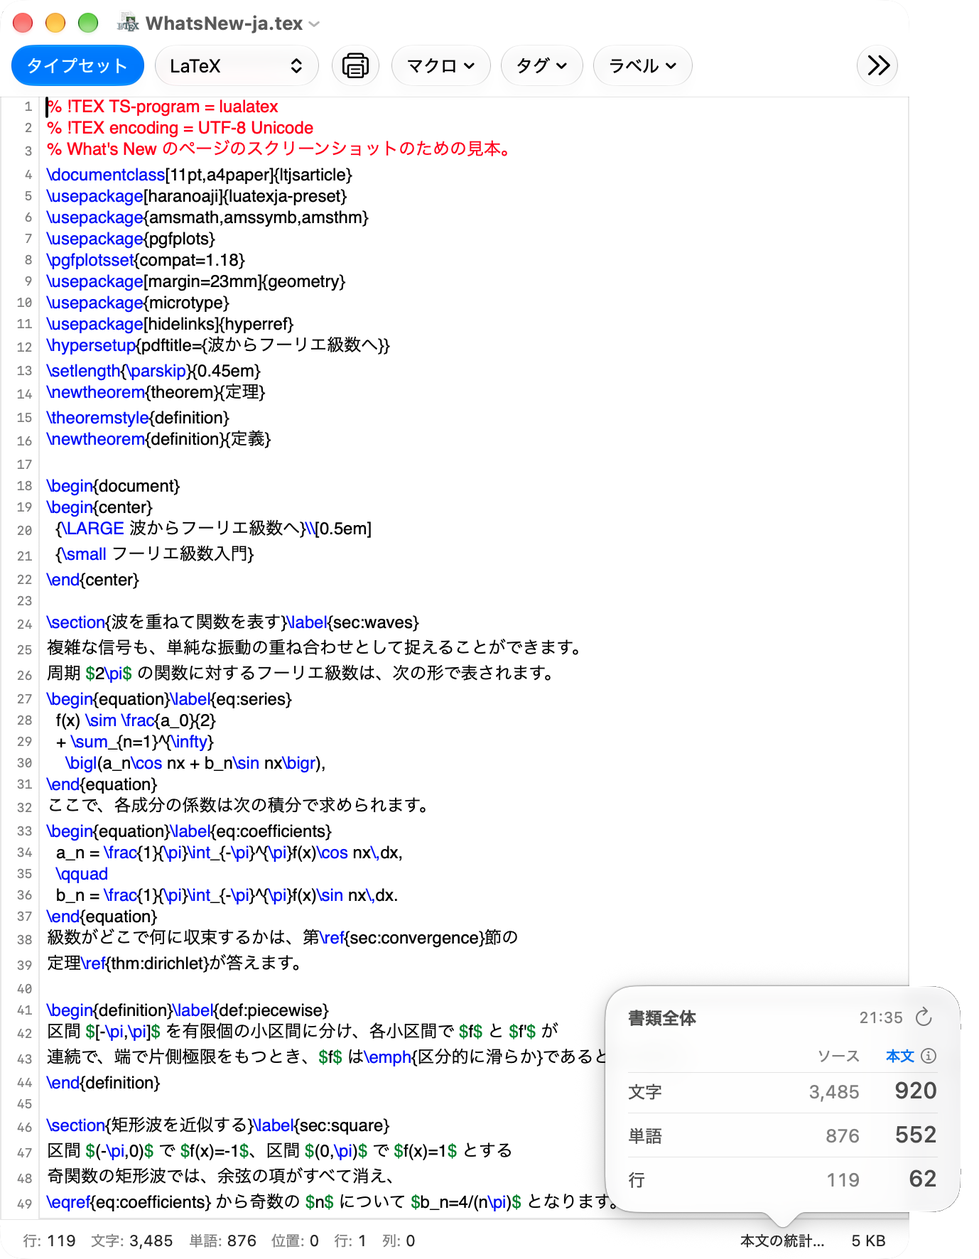
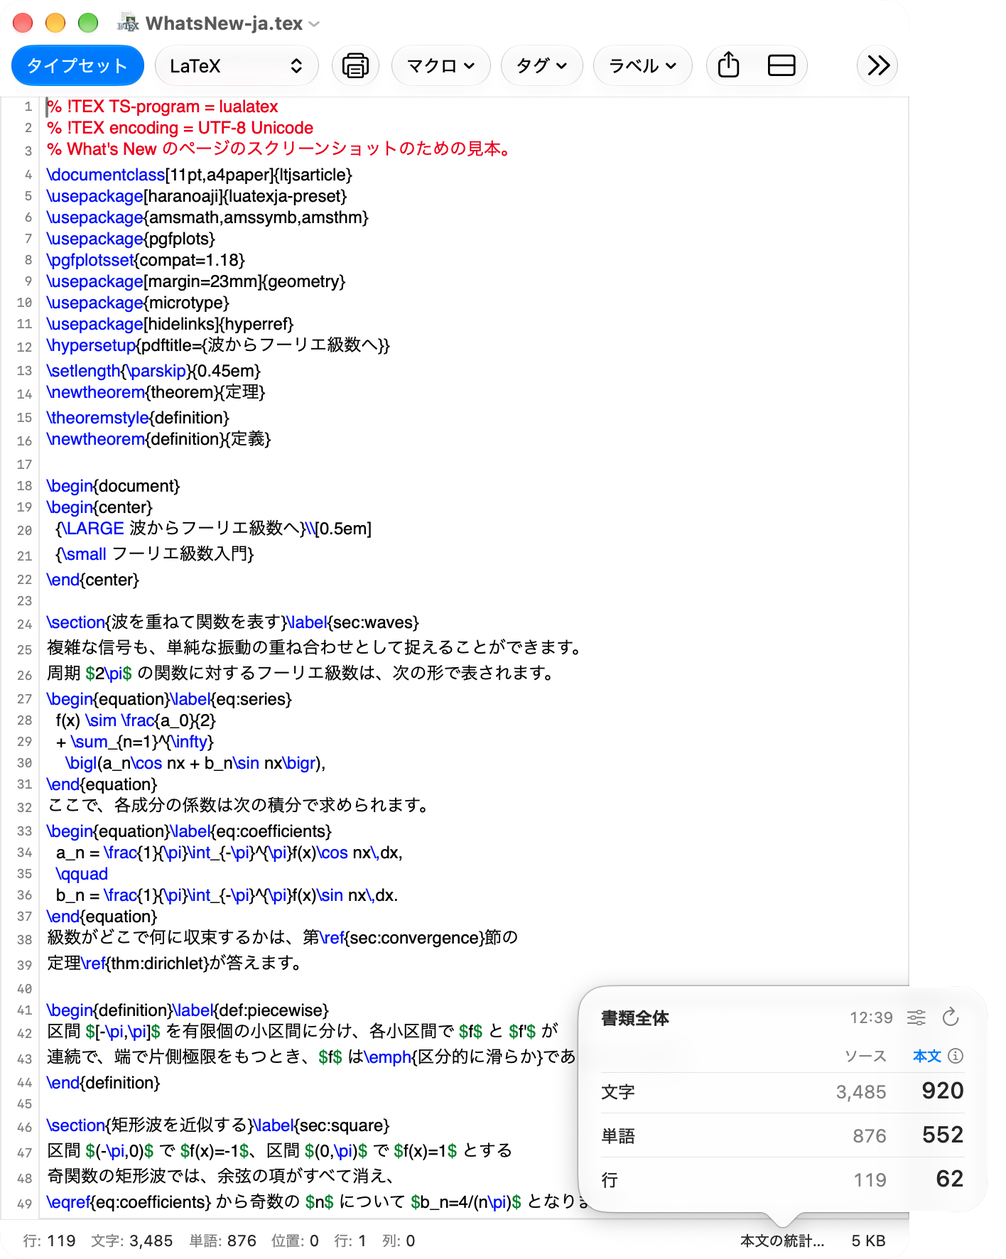
Show Text Statistics with its character count options on the What's New page
The status bar pictures show the new options button, and a card after the
status bar shows the options open.

diff --git a/website/whats-new-ja.html b/website/whats-new-ja.html
@@ -8,7 +8,7 @@
 <h1>TeXShop 6の新機能</h1>
 <p class="whats-new-download"><a class="download" href="https://github.com/TeXShopProject/TeXShop/releases/download/v.6.00-rc.2/TeXShop-6.00-RC2.zip">TeXShop 6.00 RC2 をダウンロード</a></p>
 <p class="lead">新しいTeXShop 6では、設定画面をmacOSの「システム設定」風に再設計しました。あらゆるキーバインドがカスタマイズできるようになったほか、LaTeXの構文を考慮するスペルチェッカを搭載。また、新設計の検索パネルは、複数置換機能や、同じ親ファイルを持つファイル群をまとめて検索・置換する機能も搭載しました。TeXのパスの自動設定機能およびプロファイルによるエンジン設定機能により、初期セットアップも容易になりました。文字数などを常時表示できるステータスバーも搭載。アプリのアイコンも、macOS 26 Tahoe以降の新しいデザインコードに対応した新デザインになりました。</p>
-<nav class="whats-new-contents" aria-label="目次"><ul><li><a href="#settings">新しく設計し直された設定画面</a></li><li><a href="#shortcuts">あらゆるキーバインドをカスタマイズ</a></li><li><a href="#spell-checking">LaTeXの構文を考慮するスペルチェック</a></li><li><a href="#find-panel">新しい検索パネル</a></li><li><a href="#multiple-replace">複数置換</a></li><li><a href="#texroot-search">同じ親ファイルを持つファイル群の一括検索・置換</a></li><li><a href="#status-bar">ステータスバーを新設</a></li><li><a href="#detect-paths">TeXとGhostscriptのパスを自動で設定</a></li><li><a href="#engine-profiles">エンジンのプロファイル機能</a></li><li><a href="#line-numbers">行番号で行を選択</a></li><li><a href="#toolbar-buttons">ツールバーの便利な新ボタン</a></li><li><a href="#look">新しいアイコン</a></li><li><a href="#other-changes">そのほかの変更</a></li><li><a href="#changes-in-behavior">以前の版から変わった動き</a></li></ul></nav>
+<nav class="whats-new-contents" aria-label="目次"><ul><li><a href="#settings">新しく設計し直された設定画面</a></li><li><a href="#shortcuts">あらゆるキーバインドをカスタマイズ</a></li><li><a href="#spell-checking">LaTeXの構文を考慮するスペルチェック</a></li><li><a href="#find-panel">新しい検索パネル</a></li><li><a href="#multiple-replace">複数置換</a></li><li><a href="#texroot-search">同じ親ファイルを持つファイル群の一括検索・置換</a></li><li><a href="#status-bar">ステータスバーを新設</a></li><li><a href="#text-statistics">高度な文字カウントが可能な統計パネル</a></li><li><a href="#detect-paths">TeXとGhostscriptのパスを自動で設定</a></li><li><a href="#engine-profiles">エンジンのプロファイル機能</a></li><li><a href="#line-numbers">行番号で行を選択</a></li><li><a href="#toolbar-buttons">ツールバーの便利な新ボタン</a></li><li><a href="#look">新しいアイコン</a></li><li><a href="#other-changes">そのほかの変更</a></li><li><a href="#changes-in-behavior">以前の版から変わった動き</a></li></ul></nav>
 <section class="feature-list" aria-label="主な変更">
 <article class="feature" id="settings"><div class="feature-text"><h2>新しく設計し直された設定画面</h2><p>サイドバーと検索欄を備えた、新しい設定画面になりました。</p></div><figure><img class="shot-light" src="assets/whats-new/ja/settings.png" width="600" height="450" alt="分類のサイドバーと「一般」を示す設定画面"><img loading="lazy" class="shot-dark" src="assets/whats-new/ja/settings-dark.png" width="600" height="450" alt="分類のサイドバーと「一般」を示す設定画面"></figure></article>
 <article class="feature" id="shortcuts"><div class="feature-text"><h2>あらゆるキーバインドをカスタマイズ</h2><p>メニューとマクロのショートカット、キーバインドを自由にカスタマイズできます。</p></div><figure><img class="shot-light" src="assets/whats-new/ja/menu-shortcuts.png" width="600" height="450" alt="「タイプセット」で探したメニューのショートカットの一覧" loading="lazy"><img class="shot-dark" src="assets/whats-new/ja/menu-shortcuts-dark.png" width="600" height="450" alt="「タイプセット」で探したメニューのショートカットの一覧" loading="lazy"><figcaption>メニューのショートカット</figcaption></figure><figure><img class="shot-light" src="assets/whats-new/ja/key-bindings.png" width="600" height="450" alt="選択中の文字列や出力後のカーソル位置を入れたキーバインドの一覧と、ペーストした文字列にも適用する行の「ペースト」のチェック" loading="lazy"><img class="shot-dark" src="assets/whats-new/ja/key-bindings-dark.png" width="600" height="450" alt="選択中の文字列や出力後のカーソル位置を入れたキーバインドの一覧と、ペーストした文字列にも適用する行の「ペースト」のチェック" loading="lazy"><figcaption>キーバインド</figcaption></figure><figure><img class="shot-light" src="assets/release-notes/ja/macro-editor.png" width="585" height="452" alt="マクロの一覧をサイドバーに置き、プレースホルダを札で示すTeXのマクロと、Commandなしのショートカットを示すマクロエディタ" loading="lazy"><img class="shot-dark" src="assets/release-notes/ja/macro-editor-dark.png" width="585" height="452" alt="マクロの一覧をサイドバーに置き、プレースホルダを札で示すTeXのマクロと、Commandなしのショートカットを示すマクロエディタ" loading="lazy"><figcaption>マクロエディタ</figcaption></figure></article>
@@ -16,7 +16,8 @@
 <article class="feature" id="find-panel"><div class="feature-text"><h2>新しい検索パネル</h2><p>正規表現を使える新しい検索パネルで、すべての一致を一覧にしたり、ハイライトしたりできます。</p></div><figure><img class="shot-light" src="assets/whats-new/ja/advanced-find.png" width="600" height="494" alt="正規表現を入れた新しい検索パネルと、すべての一致の一覧、ソースで強調された一致" loading="lazy"><img class="shot-dark" src="assets/whats-new/ja/advanced-find-dark.png" width="600" height="494" alt="正規表現を入れた新しい検索パネルと、すべての一致の一覧、ソースで強調された一致" loading="lazy"></figure></article>
 <article class="feature" id="multiple-replace"><div class="feature-text"><h2>複数置換</h2><p>検索と置換の組をいくつも登録して、まとめて置換できます。</p></div><figure><img class="shot-light" src="assets/release-notes/ja/multiple-replace.png" width="600" height="270" alt="検索と置換の組を4つ並べた複数置換の窓" loading="lazy"><img class="shot-dark" src="assets/release-notes/ja/multiple-replace-dark.png" width="600" height="269" alt="検索と置換の組を4つ並べた複数置換の窓" loading="lazy"></figure></article>
 <article class="feature" id="texroot-search"><div class="feature-text"><h2>同じ親ファイルを持つファイル群の一括検索・置換</h2><p>章ごとにファイルを分けた文書でも、同じ<code>%&nbsp;!TEX&nbsp;root</code>を持つすべてのソースを、まとめて検索・置換できます。置換の前後を一覧で確かめてから、一度に書き換えられます。</p></div><figure><a class="shot-light" href="assets/whats-new/ja/texroot-find.png"><img src="assets/whats-new/ja/texroot-find.png" width="600" height="382" alt="章ごとに分けた文書の4つのファイルにあるeq:seriesの一致を一覧にした「TeXソースの検索と置換」の窓" loading="lazy"></a><a class="shot-dark" href="assets/whats-new/ja/texroot-find-dark.png"><img src="assets/whats-new/ja/texroot-find-dark.png" width="600" height="382" alt="章ごとに分けた文書の4つのファイルにあるeq:seriesの一致を一覧にした「TeXソースの検索と置換」の窓" loading="lazy"></a><figcaption>検索</figcaption></figure><figure><a class="shot-light" href="assets/whats-new/ja/texroot-replace.png"><img src="assets/whats-new/ja/texroot-replace.png" width="600" height="382" alt="置換の前後を行ごとに並べ、「バックアップを保存」と「すべて置き換え」のある「TeXソースの検索と置換」の窓" loading="lazy"></a><a class="shot-dark" href="assets/whats-new/ja/texroot-replace-dark.png"><img src="assets/whats-new/ja/texroot-replace-dark.png" width="600" height="382" alt="置換の前後を行ごとに並べ、「バックアップを保存」と「すべて置き換え」のある「TeXソースの検索と置換」の窓" loading="lazy"></a><figcaption>置換</figcaption></figure></article>
-<article class="feature" id="status-bar"><div class="feature-text"><h2>ステータスバーを新設</h2><p>ソースの下に行数・文字数・単語数を常時表示できます。TeXの命令を除く本文の文字数も数えられます。</p></div><figure><img class="shot-light" src="assets/whats-new/ja/status-bar.png" width="689" height="886" alt="ステータスバーと、ソースと本文の数を並べた「本文の統計」のポップオーバーを示すソースウインドウ" loading="lazy"><img class="shot-dark" src="assets/whats-new/ja/status-bar-dark.png" width="689" height="886" alt="ステータスバーと、ソースと本文の数を並べた「本文の統計」のポップオーバーを示すソースウインドウ" loading="lazy"></figure></article>
+<article class="feature" id="status-bar"><div class="feature-text"><h2>ステータスバーを新設</h2><p>ソースの下に行数・文字数・単語数を常時表示できます。TeXの命令を除く本文の文字数も数えられます。</p></div><figure><img class="shot-light" src="assets/whats-new/ja/status-bar.png" width="708" height="886" alt="ステータスバーと、ソースと本文の数を並べた「本文の統計」のポップオーバーを示すソースウインドウ" loading="lazy"><img class="shot-dark" src="assets/whats-new/ja/status-bar-dark.png" width="708" height="886" alt="ステータスバーと、ソースと本文の数を並べた「本文の統計」のポップオーバーを示すソースウインドウ" loading="lazy"></figure></article>
+<article class="feature" id="text-statistics"><div class="feature-text"><h2>高度な文字カウントが可能な統計パネル</h2><p>改行や空白を除いた文字数や、UTF-16・バイト単位の数など、目的に合わせた数え方で本文の文字数を数えられます。</p></div><figure><img class="shot-light" src="assets/whats-new/ja/text-statistics.png" width="708" height="886" alt="改行と空白を無視するオプションを開いた「本文の統計」のポップオーバー" loading="lazy"><img class="shot-dark" src="assets/whats-new/ja/text-statistics-dark.png" width="708" height="886" alt="改行と空白を無視するオプションを開いた「本文の統計」のポップオーバー" loading="lazy"></figure></article>
 <article class="feature" id="detect-paths"><div class="feature-text"><h2>TeXとGhostscriptのパスを自動で設定</h2><p>TeXディストリビューション・Ghostscriptのインストール先を自動検索して設定できます。初期設定が簡単になります。</p></div><figure><img class="shot-light" src="assets/release-notes/ja/detect-paths.png" width="600" height="450" alt="見つかったTeXとGhostscriptを並べた「パスの自動検出」のシート" loading="lazy"><img class="shot-dark" src="assets/release-notes/ja/detect-paths-dark.png" width="600" height="450" alt="見つかったTeXとGhostscriptを並べた「パスの自動検出」のシート" loading="lazy"></figure></article>
 <article class="feature" id="engine-profiles"><div class="feature-text"><h2>エンジンのプロファイル機能</h2><p>LuaLaTeX, (u)pLaTeX + dvipdfmxなど、主要エンジンに対応したプロファイルを用意。エンジン選択の初期設定が簡単になりました。</p></div><figure><img class="shot-light" src="assets/release-notes/ja/engine-profiles.png" width="600" height="450" alt="エンジンのプロファイルのメニューのある設定の「タイプセット」" loading="lazy"><img class="shot-dark" src="assets/release-notes/ja/engine-profiles-dark.png" width="600" height="450" alt="エンジンのプロファイルのメニューのある設定の「タイプセット」" loading="lazy"></figure></article>
 <article class="feature" id="line-numbers"><div class="feature-text"><h2>行番号で行を選択</h2><p>行番号をクリックまたはドラッグして、行をまとめて選択できます。</p></div><figure><img class="shot-light" src="assets/whats-new/ja/line-numbers.png" width="551" height="560" alt="行番号の上をドラッグして27〜31行を選択したソースウインドウ" loading="lazy"><img class="shot-dark" src="assets/whats-new/ja/line-numbers-dark.png" width="551" height="560" alt="行番号の上をドラッグして27〜31行を選択したソースウインドウ" loading="lazy"></figure></article>

diff --git a/website/whats-new.html b/website/whats-new.html
@@ -8,7 +8,7 @@
 <h1>What’s New in TeXShop 6</h1>
 <p class="whats-new-download"><a class="download" href="https://github.com/TeXShopProject/TeXShop/releases/download/v.6.00-rc.2/TeXShop-6.00-RC2.zip">Download TeXShop 6.00 RC2</a></p>
 <p class="lead">The new TeXShop 6 redesigns Settings in the style of macOS System Settings. Every key binding can now be customized, and a spell checker that understands LaTeX syntax is built in. The newly designed Find panel also does multiple replacement, and can find and replace in all files with the same root file. Automatic TeX paths and engine profiles make the first setup easy. A status bar can show the character count and more at all times. The app icon also has a new design for the design language of macOS 26 Tahoe and later.</p>
-<nav class="whats-new-contents" aria-label="Contents"><ul><li><a href="#settings">A redesigned Settings window</a></li><li><a href="#shortcuts">Customize every shortcut and key binding</a></li><li><a href="#spell-checking">LaTeX-aware spell checking</a></li><li><a href="#find-panel">New Find panel</a></li><li><a href="#multiple-replace">Multiple Replace</a></li><li><a href="#texroot-search">Find and replace in all files with the same root file</a></li><li><a href="#status-bar">A new status bar</a></li><li><a href="#detect-paths">TeX and Ghostscript paths set automatically</a></li><li><a href="#engine-profiles">Engine profiles</a></li><li><a href="#line-numbers">Select lines by their numbers</a></li><li><a href="#toolbar-buttons">Handy new toolbar buttons</a></li><li><a href="#look">New app icon</a></li><li><a href="#other-changes">Other changes</a></li><li><a href="#changes-in-behavior">Changes in behavior from earlier versions</a></li></ul></nav>
+<nav class="whats-new-contents" aria-label="Contents"><ul><li><a href="#settings">A redesigned Settings window</a></li><li><a href="#shortcuts">Customize every shortcut and key binding</a></li><li><a href="#spell-checking">LaTeX-aware spell checking</a></li><li><a href="#find-panel">New Find panel</a></li><li><a href="#multiple-replace">Multiple Replace</a></li><li><a href="#texroot-search">Find and replace in all files with the same root file</a></li><li><a href="#status-bar">A new status bar</a></li><li><a href="#text-statistics">Text Statistics with advanced character counting</a></li><li><a href="#detect-paths">TeX and Ghostscript paths set automatically</a></li><li><a href="#engine-profiles">Engine profiles</a></li><li><a href="#line-numbers">Select lines by their numbers</a></li><li><a href="#toolbar-buttons">Handy new toolbar buttons</a></li><li><a href="#look">New app icon</a></li><li><a href="#other-changes">Other changes</a></li><li><a href="#changes-in-behavior">Changes in behavior from earlier versions</a></li></ul></nav>
 <section class="feature-list" aria-label="Main changes">
 <article class="feature" id="settings"><div class="feature-text"><h2>A redesigned Settings window</h2><p>A new Settings window with a sidebar and a search field.</p></div><figure><img class="shot-light" src="assets/whats-new/en/settings.png" width="600" height="450" alt="The Settings window with its sidebar of categories and the General category"><img loading="lazy" class="shot-dark" src="assets/whats-new/en/settings-dark.png" width="600" height="450" alt="The Settings window with its sidebar of categories and the General category"></figure></article>
 <article class="feature" id="shortcuts"><div class="feature-text"><h2>Customize every shortcut and key binding</h2><p>Customize every menu and macro shortcut, and key bindings.</p></div><figure><img class="shot-light" src="assets/whats-new/en/menu-shortcuts.png" width="600" height="450" alt="The list of menu shortcuts found with Typeset" loading="lazy"><img class="shot-dark" src="assets/whats-new/en/menu-shortcuts-dark.png" width="600" height="450" alt="The list of menu shortcuts found with Typeset" loading="lazy"><figcaption>Menu shortcuts</figcaption></figure><figure><img class="shot-light" src="assets/whats-new/en/key-bindings.png" width="600" height="450" alt="The list of key bindings whose text holds the selected text and the insertion point, with Paste checked for the rows also applied to pasted text" loading="lazy"><img class="shot-dark" src="assets/whats-new/en/key-bindings-dark.png" width="600" height="450" alt="The list of key bindings whose text holds the selected text and the insertion point, with Paste checked for the rows also applied to pasted text" loading="lazy"><figcaption>Key bindings</figcaption></figure><figure><img class="shot-light" src="assets/release-notes/en/macro-editor.png" width="585" height="452" alt="The Macro Editor with its macros listed in a sidebar, a TeX macro whose placeholders are tokens, and a shortcut without Command" loading="lazy"><img class="shot-dark" src="assets/release-notes/en/macro-editor-dark.png" width="585" height="452" alt="The Macro Editor with its macros listed in a sidebar, a TeX macro whose placeholders are tokens, and a shortcut without Command" loading="lazy"><figcaption>Macro Editor</figcaption></figure></article>
@@ -16,7 +16,8 @@
 <article class="feature" id="find-panel"><div class="feature-text"><h2>New Find panel</h2><p>A new Find panel with regular expressions lists or highlights every match.</p></div><figure><img class="shot-light" src="assets/whats-new/en/advanced-find.png" width="600" height="494" alt="The new Find panel with a regular expression and the list of all matches, and the matches highlighted in the source" loading="lazy"><img class="shot-dark" src="assets/whats-new/en/advanced-find-dark.png" width="600" height="494" alt="The new Find panel with a regular expression and the list of all matches, and the matches highlighted in the source" loading="lazy"></figure></article>
 <article class="feature" id="multiple-replace"><div class="feature-text"><h2>Multiple Replace</h2><p>Save sets of find and replace pairs and apply them all at once.</p></div><figure><img class="shot-light" src="assets/release-notes/en/multiple-replace.png" width="600" height="270" alt="The Multiple Replace window with a set of four find and replace pairs" loading="lazy"><img class="shot-dark" src="assets/release-notes/en/multiple-replace-dark.png" width="600" height="269" alt="The Multiple Replace window with a set of four find and replace pairs" loading="lazy"></figure></article>
 <article class="feature" id="texroot-search"><div class="feature-text"><h2>Find and replace in all files with the same root file</h2><p>Find and replace in every source of a document split into chapter files, all the files that name the same <code>%&nbsp;!TEX&nbsp;root</code>. Check every change in one list, then replace them all at once.</p></div><figure><a class="shot-light" href="assets/whats-new/en/texroot-find.png"><img src="assets/whats-new/en/texroot-find.png" width="600" height="382" alt="The Find in TeX Sources window listing the matches of eq:series in four files of a document split into chapters" loading="lazy"></a><a class="shot-dark" href="assets/whats-new/en/texroot-find-dark.png"><img src="assets/whats-new/en/texroot-find-dark.png" width="600" height="382" alt="The Find in TeX Sources window listing the matches of eq:series in four files of a document split into chapters" loading="lazy"></a><figcaption>Find</figcaption></figure><figure><a class="shot-light" href="assets/whats-new/en/texroot-replace.png"><img src="assets/whats-new/en/texroot-replace.png" width="600" height="382" alt="The Find in TeX Sources window in Replace, with each line before and after the replacement, Save backups and Replace All" loading="lazy"></a><a class="shot-dark" href="assets/whats-new/en/texroot-replace-dark.png"><img src="assets/whats-new/en/texroot-replace-dark.png" width="600" height="382" alt="The Find in TeX Sources window in Replace, with each line before and after the replacement, Save backups and Replace All" loading="lazy"></a><figcaption>Replace</figcaption></figure></article>
-<article class="feature" id="status-bar"><div class="feature-text"><h2>A new status bar</h2><p>The lines, characters and words can always be shown under the source. The characters of the text without TeX commands can be counted too.</p></div><figure><img class="shot-light" src="assets/whats-new/en/status-bar.png" width="677" height="850" alt="A source window with the status bar and the Text Statistics popover comparing the source and the text" loading="lazy"><img class="shot-dark" src="assets/whats-new/en/status-bar-dark.png" width="677" height="850" alt="A source window with the status bar and the Text Statistics popover comparing the source and the text" loading="lazy"></figure></article>
+<article class="feature" id="status-bar"><div class="feature-text"><h2>A new status bar</h2><p>The lines, characters and words can always be shown under the source. The characters of the text without TeX commands can be counted too.</p></div><figure><img class="shot-light" src="assets/whats-new/en/status-bar.png" width="739" height="850" alt="A source window with the status bar and the Text Statistics popover comparing the source and the text" loading="lazy"><img class="shot-dark" src="assets/whats-new/en/status-bar-dark.png" width="739" height="850" alt="A source window with the status bar and the Text Statistics popover comparing the source and the text" loading="lazy"></figure></article>
+<article class="feature" id="text-statistics"><div class="feature-text"><h2>Text Statistics with advanced character counting</h2><p>Characters can be counted the way you need: without line endings or whitespace, after Unicode normalization, or in UTF-16 units or bytes.</p></div><figure><img class="shot-light" src="assets/whats-new/en/text-statistics.png" width="739" height="850" alt="The Text Statistics popover with its options shown, ignoring line endings and whitespace" loading="lazy"><img class="shot-dark" src="assets/whats-new/en/text-statistics-dark.png" width="739" height="850" alt="The Text Statistics popover with its options shown, ignoring line endings and whitespace" loading="lazy"></figure></article>
 <article class="feature" id="detect-paths"><div class="feature-text"><h2>TeX and Ghostscript paths set automatically</h2><p>TeXShop searches for the TeX distribution and Ghostscript and sets their paths, which makes the first setup easy.</p></div><figure><img class="shot-light" src="assets/release-notes/en/detect-paths.png" width="600" height="450" alt="The Detect Paths sheet listing the TeX and Ghostscript installations found" loading="lazy"><img class="shot-dark" src="assets/release-notes/en/detect-paths-dark.png" width="600" height="450" alt="The Detect Paths sheet listing the TeX and Ghostscript installations found" loading="lazy"></figure></article>
 <article class="feature" id="engine-profiles"><div class="feature-text"><h2>Engine profiles</h2><p>Profiles for the major engines, such as pdfLaTeX, LuaLaTeX and XeLaTeX, make choosing the engine easy at the first setup.</p></div><figure><img class="shot-light" src="assets/release-notes/en/engine-profiles.png" width="600" height="450" alt="The Typesetting category of Settings with the engine profile menu" loading="lazy"><img class="shot-dark" src="assets/release-notes/en/engine-profiles-dark.png" width="600" height="450" alt="The Typesetting category of Settings with the engine profile menu" loading="lazy"></figure></article>
 <article class="feature" id="line-numbers"><div class="feature-text"><h2>Select lines by their numbers</h2><p>Click or drag over the line numbers to select whole lines.</p></div><figure><img class="shot-light" src="assets/whats-new/en/line-numbers.png" width="551" height="560" alt="The source window with lines 30 to 34 selected by dragging over their line numbers" loading="lazy"><img class="shot-dark" src="assets/whats-new/en/line-numbers-dark.png" width="551" height="560" alt="The source window with lines 30 to 34 selected by dragging over their line numbers" loading="lazy"></figure></article>
